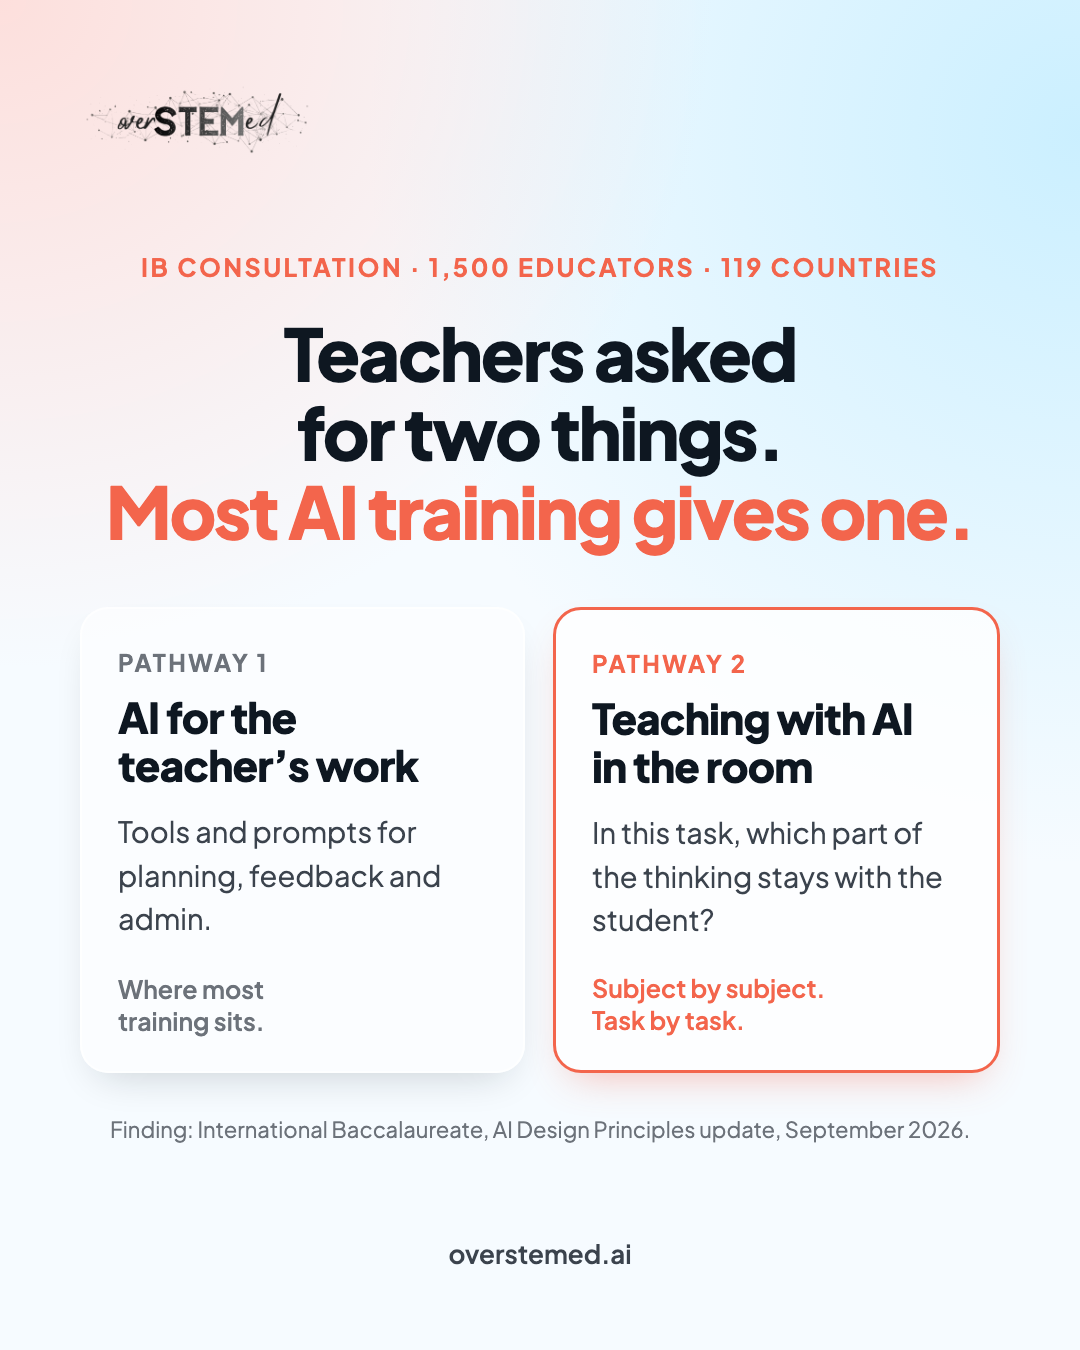
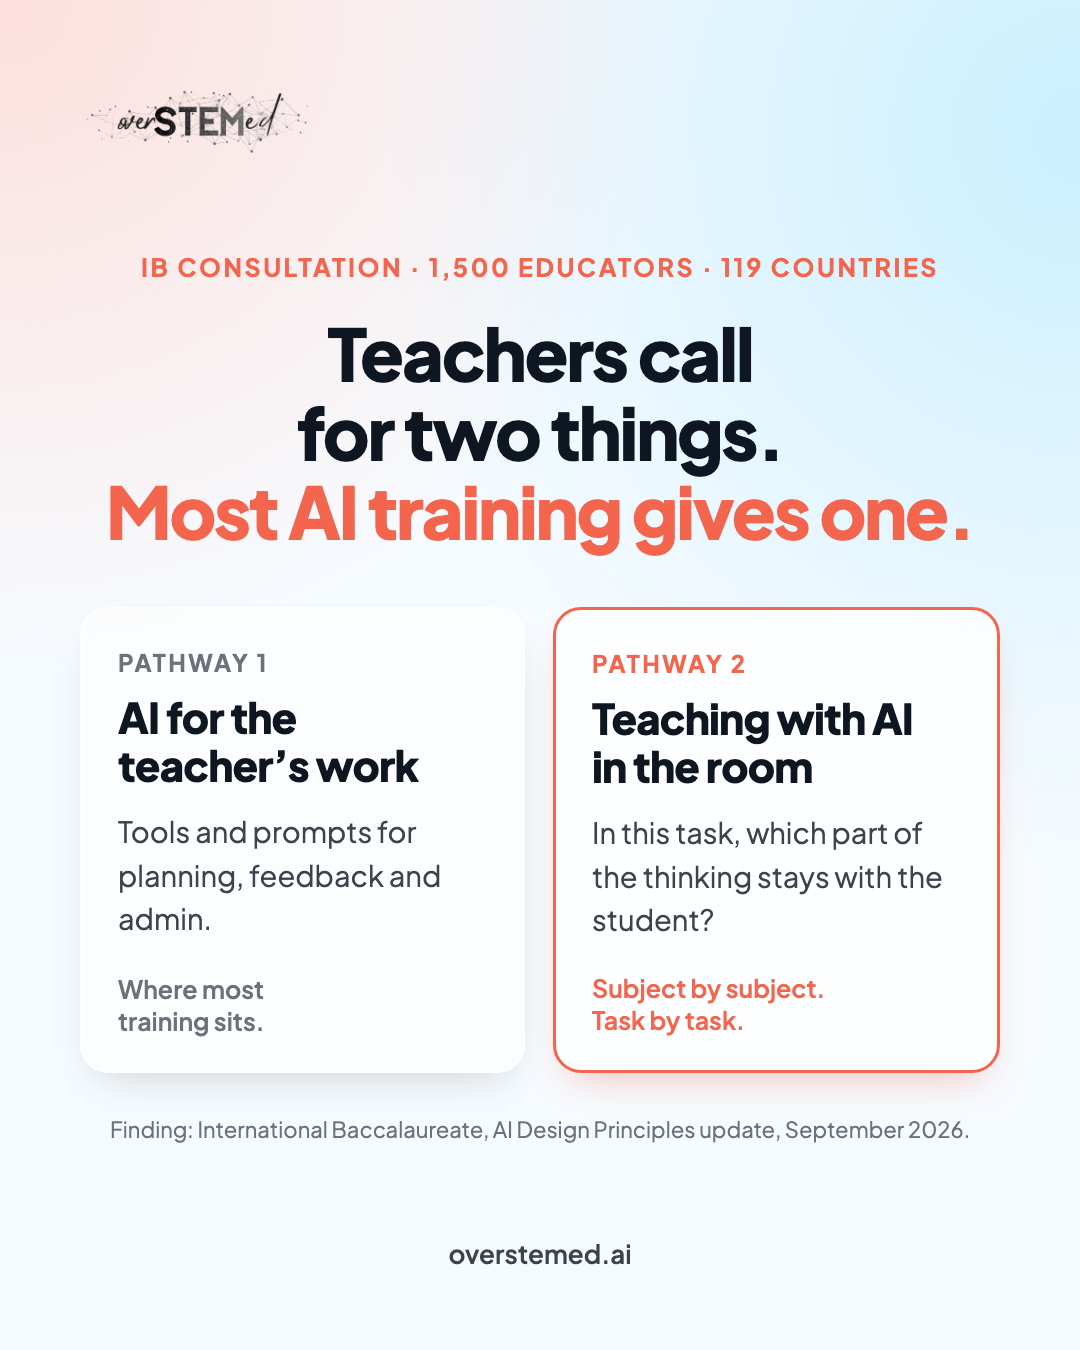
Two-pathways image headline: Teachers call for two things

Changed region(s): [[0.275, 0.2178, 0.7333, 0.28]]

diff --git a/post-templates.html b/post-templates.html
@@ -983,7 +983,7 @@ a{color:oklch(0.68 0.18 32);text-decoration:none;} a:hover{color:oklch(0.55 0.16
           </div>
           <div style="flex:1;display:flex;flex-direction:column;justify-content:center;">
             <div style="text-align:center;font-size:25px;font-weight:700;letter-spacing:0.1em;text-transform:uppercase;color:oklch(0.68 0.18 32);margin-bottom:30px;">IB consultation &middot; 1,500 educators &middot; 119 countries</div>
-            <div style="text-align:center;font-weight:800;font-size:72px;line-height:1.1;letter-spacing:-0.03em;">Teachers asked<br>for two things.<br><em style="font-style:normal;color:oklch(0.68 0.18 32);">Most AI training gives one.</em></div>
+            <div style="text-align:center;font-weight:800;font-size:72px;line-height:1.1;letter-spacing:-0.03em;">Teachers call<br>for two things.<br><em style="font-style:normal;color:oklch(0.68 0.18 32);">Most AI training gives one.</em></div>
             <div style="display:flex;gap:28px;margin-top:56px;align-items:stretch;">
               <div style="flex:1;display:flex;flex-direction:column;padding:38px 36px 34px;border-radius:28px;background:oklch(1 0 0 / 0.55);border:2px solid oklch(1 0 0 / 0.8);box-shadow:0 18px 40px -18px oklch(0.2 0.02 255 / 0.2);">
                 <div style="font-size:24px;font-weight:700;letter-spacing:0.1em;text-transform:uppercase;color:oklch(0.55 0.015 255);">Pathway 1</div>
